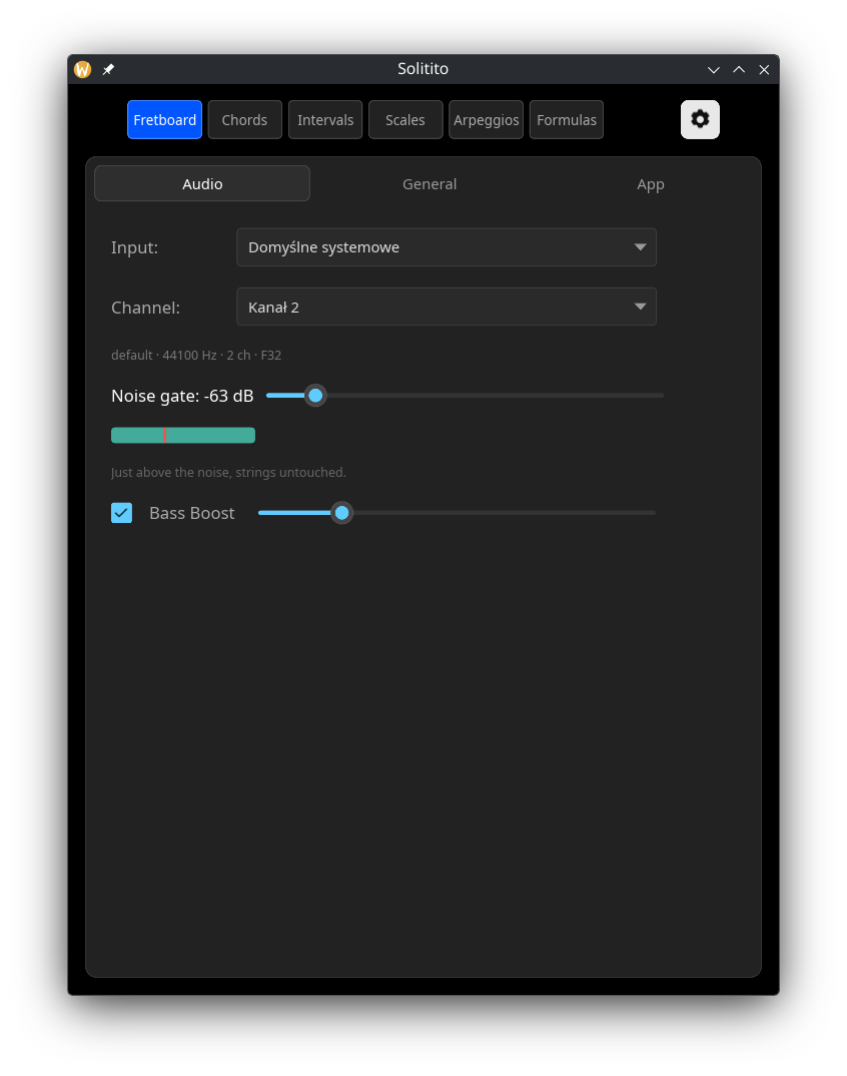
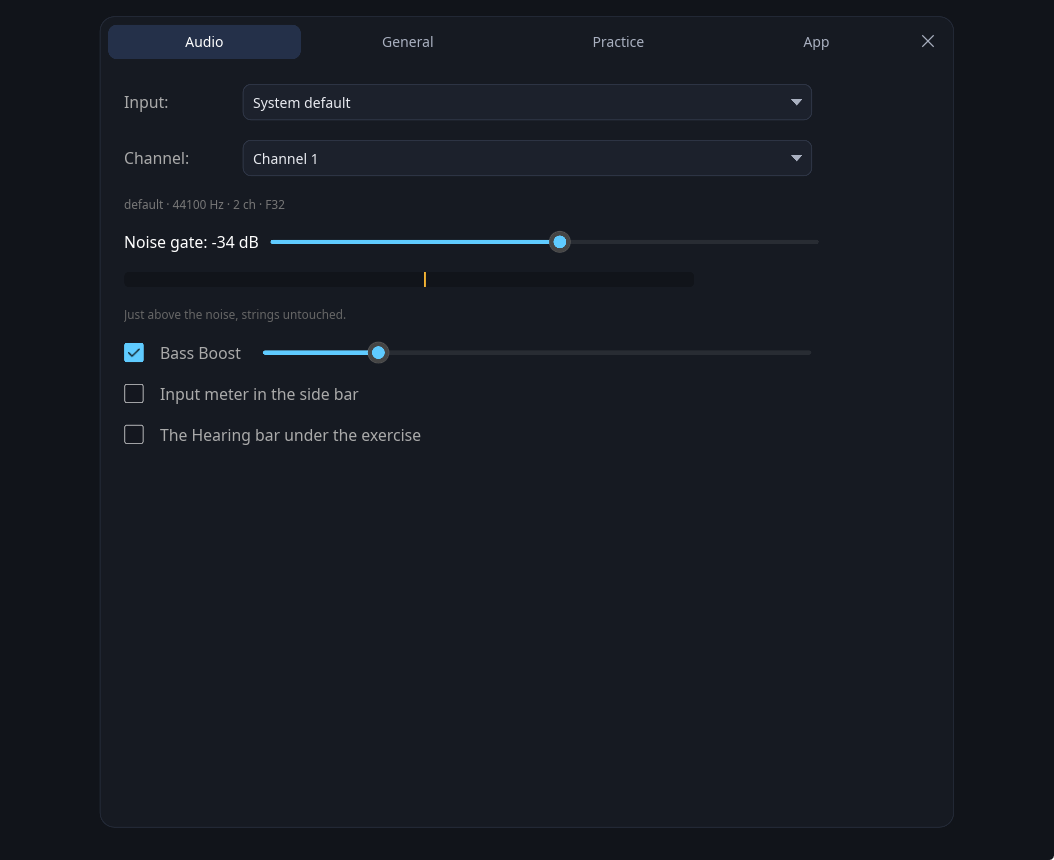
README and settings docs: new screenshots, four in the README

diff --git a/docs/settings_pl.md b/docs/settings_pl.md
@@ -10,9 +10,9 @@ Cztery zakładki: **Dźwięk** — wejście i bramka szumów, **Ogólne** — ja
 to, co grasz, **Ćwiczenia** — co grać, oraz **Program** — co pokazuje okno.
 
 <div align="center">
-<img width="220" alt="Ustawienia, zakładka Dźwięk" src="solitito_settings2.png" />
-<img width="220" alt="Ustawienia, zakładka Ogólne" src="solitito_settings1.png" />
-<img width="220" alt="Ustawienia, zakładka Program" src="solitito_settings4.png" />
+<img width="300" alt="Ustawienia, zakładka Dźwięk" src="solitito_settings2.png" />
+<img width="300" alt="Ustawienia, zakładka Ogólne" src="solitito_settings1.png" />
+<img width="300" alt="Ustawienia, zakładka Program" src="solitito_settings4.png" />
 </div>
 
 **Ćwiczenia** zawierają wyłącznie to, co ma sens dla trybu widocznego na ekranie — utwór nie ma
@@ -20,11 +20,11 @@ nic do powiedzenia w Formułach, formuła nic w Akordach — więc w każdym try
 zakładka, a trener gryfu, który nie ma własnych ustawień, nie pokazuje jej wcale:
 
 <div align="center">
-<img width="175" alt="Ćwiczenia, Akordy" src="solitito_settings3.png" />
-<img width="175" alt="Ćwiczenia, Interwały" src="solitito_settings5.png" />
-<img width="175" alt="Ćwiczenia, Skale" src="solitito_settings6.png" />
-<img width="175" alt="Ćwiczenia, Arpeggia" src="solitito_settings7.png" />
-<img width="175" alt="Ćwiczenia, Formuły" src="solitito_settings8.png" />
+<img width="250" alt="Ćwiczenia, Akordy" src="solitito_settings3.png" />
+<img width="250" alt="Ćwiczenia, Interwały" src="solitito_settings5.png" />
+<img width="250" alt="Ćwiczenia, Skale" src="solitito_settings6.png" />
+<img width="250" alt="Ćwiczenia, Arpeggia" src="solitito_settings7.png" />
+<img width="250" alt="Ćwiczenia, Formuły" src="solitito_settings8.png" />
 </div>
 
 | Ustawienie | Opis |
@@ -33,19 +33,21 @@ zakładka, a trener gryfu, który nie ma własnych ustawień, nie pokazuje jej w
 | **Studium** | Arpeggia, w ćwiczeniu ze studiami: którą frazę przechodzić. Przełącznik losowania znaczy tu **tonację**: nową po każdym przejściu. Arpeggio jest frazą, więc nie ma w nim czego tasować, a wybrane studium zostaje takie, jakie wskazałeś — generator jest osobną pozycją listy dla kogoś, kto chce też świeżej frazy. Najpierw trzy studia w jakościach akordu, potem łamane tercje i triole, dalej zwykłe przebiegi dwuoktawowe, a na końcu generator budujący świeżą frazę po każdym przejściu. Pole obok trzyma tonację |
 | **Ćwiczenie** (arpeggia) | *Studium w tonacji* stoi na jednym akordzie — jego jakość ustawiasz niżej, tonację obok studium, a losowanie dobiera nową po każdym przejściu. *Ogrywanie zmian* bierze akordy z utworu i buduje po jednym arpeggiu na akord |
 | **Kierunek** | Przy ogrywaniu zmian: wznoszące, opadające albo naprzemiennie z każdej ze stron. Opadające to kształt ze studiów — od prymy **w dół** przez składniki akordu, a nie fraza wznosząca czytana od tyłu |
-| **Widok** | Trzy sposoby pokazania ćwiczenia: linia nazw stopni, tabulatura albo sama podstrunnica. Ustawienie jest osobne dla każdego trybu i zapisywane — skala to kolejność dźwięków i czyta się jako tabulatura, chwyt to kształt ręki i mówi coś dopiero na podstrunnicy. Domyślnie tabulatura w Skalach i Arpeggiach, podstrunnica w Interwałach i Gryfie. Fraza — skala albo arpeggio — rysowana jest na podstrunnicy, z białym pierścieniem wokół dźwięku, który jest teraz na kolei, i zielenią na każdym miejscu już zagranym. Fraza w górę i w dół wraca do własnych miejsc, więc na szczycie kształt jest zielony w całości, a o tym, gdzie się jest w drodze powrotnej, mówi pierścień — pierścień jest też na tabulaturze, bo przy skali rozdanej w losowej kolejności to jedyne, co mówi, w którym miejscu się jest; obrazek ma rozmiar ręki niezależnie od długości frazy, więc studium na trzydzieści dźwięków pozostaje czytelne. Skala rysowana jest w losowanej pozycji — kształt jest wszędzie ten sam, a rzecz w tym, żeby go znać tam, gdzie ręka akurat stanie. W Gryfie obrazkiem jest **region**: struny podpisane z lewej, te poza grą przygaszone, progi w grze, a po zagraniu właściwego dźwięku — każde miejsce wewnątrz regionu, gdzie on leży, na zielono. Wcześniej nie ma tam nic, a zły dźwięk nie jest rysowany w ogóle: szukanie miejsca jest właśnie ćwiczeniem. W kółku stoi stopień w pisowni ćwiczenia, więc skala zapisująca podwyższoną sekundę jako `#2` czyta się na gryfie jako `♯2`. W Interwałach zbiór rysowany jest jako **chwyt**: schemat jak przy akordach, struny w poprzek i progi w dół, z pozycją obok — pasek ma na osi poziomej kolejność dźwięków, a to nie mówi nic o tym, gdzie idą palce. Przy włączonym **Prowadź głosy** — domyślnie — każdy chwyt brany jest tam, gdzie palce mają najmniej do przejścia od poprzedniego, więc progresja sama przechodzi przez gryf. Wyłączone: każdy akord brany jest tam, gdzie gryf go daje, i tak poznaje się jeden kształt po całym gryfie, a nie w jednym jego rogu; losowanie też wyłącza prowadzenie. Przy włączonym losowaniu nie ma czego prowadzić: akordy idą w wylosowanej kolejności, a każdy chwyt brany jest tam, gdzie gryf go daje. To, na której strunie leży kółko, jest oktawą, więc apostrofy przestają być potrzebne; zagrane zapala się na zielono w obu widokach |
+| **Widok** | Trzy sposoby pokazania ćwiczenia: linia nazw stopni, tabulatura albo sama podstrunnica. Ustawienie jest osobne dla każdego trybu i zapisywane — skala to kolejność dźwięków i czyta się jako tabulatura, chwyt to kształt ręki i mówi coś dopiero na podstrunnicy. Domyślnie tabulatura w Skalach i Arpeggiach, podstrunnica w Interwałach i Gryfie. Fraza — skala albo arpeggio — rysowana jest na podstrunnicy, z białym pierścieniem wokół dźwięku, który jest teraz na kolei, i zielenią na każdym miejscu już zagranym. Fraza w górę i w dół wraca do własnych miejsc, więc na szczycie kształt jest zielony w całości, a o tym, gdzie się jest w drodze powrotnej, mówi pierścień — pierścień jest też na tabulaturze, bo przy skali rozdanej w losowej kolejności to jedyne, co mówi, w którym miejscu się jest; obrazek ma rozmiar ręki niezależnie od długości frazy, więc studium na trzydzieści dźwięków pozostaje czytelne. Skala rysowana jest w losowanej pozycji — kształt jest wszędzie ten sam, a rzecz w tym, żeby go znać tam, gdzie ręka akurat stanie. W Gryfie obrazkiem jest **region**: struny podpisane z lewej, te poza grą przygaszone, progi w grze, a po zagraniu właściwego dźwięku — każde miejsce wewnątrz regionu, gdzie on leży, na zielono. Wcześniej nie ma tam nic, a zły dźwięk nie jest rysowany w ogóle: szukanie miejsca jest właśnie ćwiczeniem. W kółku stoi stopień w pisowni ćwiczenia, więc skala zapisująca podwyższoną sekundę jako `#2` czyta się na gryfie jako `♯2`. W Interwałach zbiór rysowany jest jako **chwyt**: schemat jak przy akordach, struny w poprzek i progi w dół, z pozycją obok — pasek ma na osi poziomej kolejność dźwięków, a to nie mówi nic o tym, gdzie idą palce. Przy włączonym **Prowadź głosy** — domyślnie — każdy chwyt brany jest tam, gdzie palce mają najmniej do przejścia od poprzedniego, więc progresja sama przechodzi przez gryf. Wyłączone: każdy akord brany jest tam, gdzie gryf go daje, i tak poznaje się jeden kształt po całym gryfie, a nie w jednym jego rogu; losowanie też wyłącza prowadzenie. Przy włączonym losowaniu nie ma czego prowadzić: akordy idą w wylosowanej kolejności, a każdy chwyt brany jest tam, gdzie gryf go daje. To, na której strunie leży kółko, jest oktawą, więc apostrofy przestają być potrzebne; zagrane zapala się na zielono w obu widokach. Interwały mają czwarty widok, **kafelki**: każdy stopień na karcie, z dźwiękiem, na który wypada w tym akordzie, i z tym, czy jest teraz, dalej, czy już zaliczony |
 | **Numery progów zamiast stopni** | Tylko na tym rysunku. Pryma zachowuje swój kolor |
 | **Tonacja** | Tylko Skale: tonika. Przy włączonej kolejności losowej losowana od nowa po każdym przejściu |
 | **Interwały** | Które stopnie ćwiczyć. `1 3 5` dla triad, `1 3 5 7` dla akordów septymowych, `1 3` dla voicingów szkieletowych. `3` obejmuje tercję wielką i małą, `5` kwintę czystą i zmniejszoną, zależnie od jakości akordu |
 | **Pokazuj predykcję AI w oknie głównym** | Wyświetla surową odpowiedź modelu na ekranie głównym |
 | **Wejście** | Które urządzenie przechwytujące otworzyć. *Domyślne systemowe* podąża za ustawieniem systemu. Zapamiętywane, z odwrotem do domyślnego, gdy urządzenia zabraknie |
 | **Kanał** | Na którym wejściu urządzenia słuchać — gitara w gnieździe 2 interfejsu to kanał 2. Pokazywany tylko wtedy, gdy urządzenie ma więcej niż jeden, i nie ma opcji miksowania: uśrednianie wejść wciąga to, co jest na drugim gnieździe, i kosztuje 6 dB |
-| **Bramka szumów** | Próg w dBFS. Pasek poniżej pokazuje bieżący poziom wejścia w tej samej skali, z progiem zaznaczonym na czerwono — ustaw go tuż nad szumem przy nietkniętych strunach |
+| **Bramka szumów** | Próg w dBFS. Pasek poniżej pokazuje bieżący poziom wejścia w tej samej skali, z progiem zaznaczonym żółtą kreską — ustaw go tuż nad szumem przy nietkniętych strunach |
+| **Miernik wejścia w pasku bocznym** | Ten sam poziom i żółta kreska na karcie w pasku bocznym, nad nimi urządzenie, kanał i to, czy gitara jest słyszana. Domyślnie wyłączone; kliknięcie karty otwiera zakładkę Dźwięk |
+| **Pasek „Słyszę” pod ćwiczeniem** | Co rozpoznaje model i jakie dźwięki słyszy, pod ćwiczeniem. Domyślnie wyłączone — w trakcie gry odciąga wzrok od schematów |
 | **Podbicie basu** | Cyfrowe wzmocnienie najniższych prążków CQT. Przydatne przy mikrofonach laptopowych, które zwykle ścinają niskie struny |
 | **Trzymaj jakość akordu do nowego ataku** | Utrzymuje rozpoznaną jakość, dopóki nie uderzysz strun ponownie. Bez tego trzymane `m7` zmienia się w `m`, gdy septyma wybrzmiewa |
 | **Oceniaj krótkie szarpnięcia po ataku** | Dla akordów uderzanych i puszczanych, a nie trzymanych. Liczy się jeden czysty odczyt celu, a wybrzmiewanie po nim nie może go cofnąć. Zły akord nadal nie przechodzi |
 | **Zaliczaj tylko to, co uderzone** | Tryby nutowe: model może zaliczyć dźwięk tylko wtedy, gdy detektor uderzeń zgłosił uderzenie właśnie tego dźwięku w ostatnich 0,35 s — łącznie z odczytem nazwy akordu, który wcześniej się przez to prześlizgiwał i zaliczał dowolny dźwięk, jeśli akurat był prymą tego, co model nazwał. Zmierzone na nagraniu pojedynczych dźwięków: dwie trzecie zaliczeń, które model przyznaje dźwiękowi innemu niż grany, nie niesie żadnego ataku — prawie zawsze jest to dźwięk poprzedni, wciąż brzmiący w jego oknie 0,77 s. Domyślnie włączone w Interwałach, z osobno zapamiętywanym wyborem; w pozostałych trybach domyślnie wyłączone. Estymaty z pojedynczej ramki ta opcja nie dotyczy; w Formułach ma ona własną regułę, patrz [Jak to działa](how-it-works_pl.md) |
-| **Graj dźwięki pojedynczo** | Do wyboru w Interwałach i w Gryfie. W Skalach i Arpeggiach obowiązuje zawsze, niezależnie od ustawienia — nikt nie uderza skali jak akordu — a Akordy i Formuły mają swoje własne reguły. Wyłączone: uderzony akord zalicza swoje interwały jeden po drugim — głowica wysokości jest polifoniczna i raportuje wszystkie dźwięki naraz. Włączone: liczy się wyłącznie estymata jednoklatkowa, i to dopiero gdy utrzyma się przez trzy klatki audio: zmierzone na 49 dźwiękach — cztery drogi zaliczenia razem dały 110 zaliczeń rzeczy niegranych, sama ustabilizowana estymata 33, i nie przegapiła żadnego dźwięku. **Domyślnie włączone w Interwałach**, razem ze stałą kolejnością i „zaliczaj tylko to, co uderzone" — te trzy razem są drogą zmierzoną. Odznaczone wszystkie trzy i tryb staje się tym drugim, czym może być: decyduje model i nic z nim nie dyskutuje, łącznie z przenoszeniem zaliczeń między akordami — to gra akordami i pojedynczymi dźwiękami akordowymi dla zabawy, a nie egzamin |
+| **Graj dźwięki pojedynczo** | Do wyboru w Interwałach i w Gryfie. W Skalach i Arpeggiach obowiązuje zawsze, niezależnie od ustawienia — nikt nie uderza skali jak akordu — a Akordy i Formuły mają swoje własne reguły. Wyłączone: uderzony akord zalicza swoje interwały jeden po drugim — głowica wysokości jest polifoniczna i raportuje wszystkie dźwięki naraz. Włączone: liczy się wyłącznie estymata jednoklatkowa, i to dopiero gdy utrzyma się przez trzy klatki audio: zmierzone na 49 dźwiękach — cztery drogi zaliczenia razem dały 110 zaliczeń rzeczy niegranych, sama ustabilizowana estymata 33, i nie przegapiła żadnego dźwięku. **Domyślnie włączone w Interwałach**, razem ze stałą kolejnością i „zaliczaj tylko to, co uderzone" — te trzy razem są drogą zmierzoną. Odznaczone wszystkie trzy i tryb staje się tym drugim, czym może być: decyduje model i nic z nim nie dyskutuje, łącznie z przenoszeniem zaliczeń między akordami — czyli Interwały bez „pojedynczo, po kolei, tylko uderzone” |
 | **Losowa kolejność** | Ikona losowania na pasku narzędzi. W trybach nutowych miesza dźwięki wewnątrz każdego akordu; w Akordach zmienia kolejność progresji, a w Skalach losuje tonację po każdym przejściu |
 | **Mieszaj także akordy** | Tylko Interwały i Arpeggia, i tylko przy włączonym losowaniu. Wyłączone: progresja zostaje taka, jak zapisana, a ruszają się same dźwięki — pomieszane interwały idące po prawdziwej progresji zamieniają się w melodie. Włączone: akordy również są losowane, co jest ćwiczeniem bardziej abstrakcyjnym |
 | **Ćwiczenie** (formuły) | *Formuła w tonacji* to tryb w postaci pierwotnej. *Nad akordem* stawia tę samą formułę na jednym wylosowanym akordzie, a *Nad standardem* na każdym akordzie utworu po kolei — formuła jest stała, harmonia pod nią się zmienia |
@@ -84,10 +86,12 @@ własną i czekają na klawisz, żeby raport dało się przeczytać.
 
 Trzy elementy sterowania leżą poza panelem ustawień, w samym oknie.
 
-**Pasek na dole** pokazuje akord właśnie zagrany, akord bieżący i następny. Akord zostawiony
-za sobą zachowuje kolor, na jaki zasłużył — zielony przy trafieniu dokładnym, żółty gdy
-przeszedł triadą albo zamianą — więc zaliczenie zostaje czytelne po tym, jak program poszedł
-dalej.
+**Rząd akordów u góry** pokazuje, gdzie w utworze jesteś: dwa akordy wstecz, bieżący i cztery
+następne. Akord zostawiony za sobą zachowuje kolor, na jaki zasłużył — zielony przy trafieniu
+dokładnym, żółty gdy przeszedł triadą albo zamianą — a przewinięty strzałkami zostaje szary.
+**Tytuł utworu** pod nim otwiera listę utworów. W Interwałach w prawym górnym rogu stoją dwie
+zasady, **Pojedyncze dźwięki** i **Po kolei** — te same przełączniki co w ustawieniach
+Ćwiczeń.
 
 **Losowanie** znaczy w każdym trybie co innego, bo w każdym co innego warto losować:
 
@@ -108,7 +112,7 @@ pokrywa wszystkie sześć sposobów. Losowanie dawało pięć zejść z rzędu, 
 zepsute ćwiczenie.
 
 **Pauza** zatrzymuje progresję, a kolory dalej mówią, czy akord jest właściwy — można zostać
-przy jednym chwycie i go opracować. Przy pauzie strzałki po bokach paska przechodzą tam i z
-powrotem po progresji.
+przy jednym chwycie i go opracować. Przy pauzie strzałki po bokach przycisku pauzy przechodzą tam
+i z powrotem po progresji.
 
 Puste struny w gripach interwałów są rysowane jako niewypełnione kółka poza kolumnami progów, z interwałem w środku. Nie trafiają na pierwszy próg.

diff --git a/docs/settings.md b/docs/settings.md
@@ -10,9 +10,9 @@ Four tabs: **Audio** for the input and the noise gate, **General** for how stric
 play is judged, **Practice** for what to play, and **App** for what the window shows.
 
 <div align="center">
-<img width="220" alt="Settings, Audio tab" src="solitito_settings2.png" />
-<img width="220" alt="Settings, General tab" src="solitito_settings1.png" />
-<img width="220" alt="Settings, App tab" src="solitito_settings4.png" />
+<img width="300" alt="Settings, Audio tab" src="solitito_settings2.png" />
+<img width="300" alt="Settings, General tab" src="solitito_settings1.png" />
+<img width="300" alt="Settings, App tab" src="solitito_settings4.png" />
 </div>
 
 **Practice** holds only what belongs to the mode on screen — a song has nothing to say in
@@ -20,11 +20,11 @@ Formulas, a formula nothing in Chords — so it is a different tab in each of th
 fretboard trainer, which has no settings of its own, does not show it at all:
 
 <div align="center">
-<img width="175" alt="Practice, Chords" src="solitito_settings3.png" />
-<img width="175" alt="Practice, Intervals" src="solitito_settings5.png" />
-<img width="175" alt="Practice, Scales" src="solitito_settings6.png" />
-<img width="175" alt="Practice, Arpeggios" src="solitito_settings7.png" />
-<img width="175" alt="Practice, Formulas" src="solitito_settings8.png" />
+<img width="250" alt="Practice, Chords" src="solitito_settings3.png" />
+<img width="250" alt="Practice, Intervals" src="solitito_settings5.png" />
+<img width="250" alt="Practice, Scales" src="solitito_settings6.png" />
+<img width="250" alt="Practice, Arpeggios" src="solitito_settings7.png" />
+<img width="250" alt="Practice, Formulas" src="solitito_settings8.png" />
 </div>
 
 | Setting | Description |
@@ -33,19 +33,21 @@ fretboard trainer, which has no settings of its own, does not show it at all:
 | **Study** | Arpeggios, in the study exercise: which phrase to walk. The shuffle switch means the KEY here: a new one after every pass. An arpeggio is a phrase, so there is nothing in it to shuffle, and the study itself is left as chosen — the generator is a row in the list for anyone who wants a fresh phrase as well. The three chord-quality studies come first, then the broken thirds and triplets, then plain two-octave runs, and last a generator that builds a fresh phrase after every pass. The second combo beside it holds the key |
 | **Exercise** (arpeggios) | *Study in a key* stands on one chord — its quality is set below, its key beside the study, and the shuffle draws a new key after every pass. *Over the changes* takes the chords from a tune and builds one arpeggio per chord |
 | **Direction** | Over the changes: ascending, descending, or alternating from either side. Descending is the shape the studies use — from the root **downwards** through the chord's own tones, not the ascending phrase read backwards |
-| **View** | Three ways to show the exercise: the line of degree names, tablature, or the neck itself. Kept per mode and remembered — a scale is an order of notes and reads as tablature, a grip is a hand shape and says nothing until it is on the neck. Tablature by default in Scales and Arpeggios, the neck in Intervals and the fretboard trainer. A phrase — a scale or an arpeggio — is drawn on the neck it is played on, with the note due ringed in white and every place already played green. An up-and-down phrase comes back to its own places, so by the turn the shape is green all through and the ring is what says where the player is on the way down — the tablature rings it too, which is what tells you where you are in a scale dealt in a drawn order; the picture is the size of a hand however long the phrase is, so a thirty-note study stays readable. A scale is drawn in a position drawn at random — the shape is the same everywhere, and the point is to know it wherever the hand lands. In the fretboard trainer the picture is the REGION: the strings named down the left, the ones out of play dimmed, the frets in play, and — once the note asked for is played — every place inside the region where it lies, in green. Nothing is drawn before that, and a wrong note is not drawn at all: where the note lies is the exercise. Each dot carries the degree as the exercise writes it, so a scale spelling its altered second `#2` reads `♯2` on the neck too. In Intervals the set is drawn as a GRIP: a chord box like the shape diagrams, strings across and frets down, with the position beside it — a strip has the ORDER of the notes on its horizontal axis, which says nothing about where the fingers go. With **Lead the voices** on — the default — each grip is taken where the fingers have least to move from the one before, so a progression walks itself across the neck. Off, every chord is taken wherever the neck is drawn to offer it, which is how one shape is learned all over the neck instead of in one corner of it; the shuffle switches the leading off as well. With the shuffle on there is no line to lead: the chords come in a drawn order and each grip is taken where the neck offers it. Which string a dot sits on is the octave, so nothing needs an apostrophe; what has been played lights green either way |
+| **View** | Three ways to show the exercise: the line of degree names, tablature, or the neck itself. Kept per mode and remembered — a scale is an order of notes and reads as tablature, a grip is a hand shape and says nothing until it is on the neck. Tablature by default in Scales and Arpeggios, the neck in Intervals and the fretboard trainer. A phrase — a scale or an arpeggio — is drawn on the neck it is played on, with the note due ringed in white and every place already played green. An up-and-down phrase comes back to its own places, so by the turn the shape is green all through and the ring is what says where the player is on the way down — the tablature rings it too, which is what tells you where you are in a scale dealt in a drawn order; the picture is the size of a hand however long the phrase is, so a thirty-note study stays readable. A scale is drawn in a position drawn at random — the shape is the same everywhere, and the point is to know it wherever the hand lands. In the fretboard trainer the picture is the REGION: the strings named down the left, the ones out of play dimmed, the frets in play, and — once the note asked for is played — every place inside the region where it lies, in green. Nothing is drawn before that, and a wrong note is not drawn at all: where the note lies is the exercise. Each dot carries the degree as the exercise writes it, so a scale spelling its altered second `#2` reads `♯2` on the neck too. In Intervals the set is drawn as a GRIP: a chord box like the shape diagrams, strings across and frets down, with the position beside it — a strip has the ORDER of the notes on its horizontal axis, which says nothing about where the fingers go. With **Lead the voices** on — the default — each grip is taken where the fingers have least to move from the one before, so a progression walks itself across the neck. Off, every chord is taken wherever the neck is drawn to offer it, which is how one shape is learned all over the neck instead of in one corner of it; the shuffle switches the leading off as well. With the shuffle on there is no line to lead: the chords come in a drawn order and each grip is taken where the neck offers it. Which string a dot sits on is the octave, so nothing needs an apostrophe; what has been played lights green either way. Intervals has a fourth view, **tiles**: each degree on a card, with the note it falls on this chord and whether it is due, still to come or done |
 | **Fret numbers instead of degrees** | In that drawing only. The root keeps its colour |
 | **Key** | Scales only: the tonic. With random order on, it is redrawn after each pass |
 | **Intervals** | Which degrees to practise. `1 3 5` for triads, `1 3 5 7` for sevenths, `1 3` for shell voicings. `3` matches both major and minor thirds, `5` matches perfect and diminished fifths, according to the chord quality |
 | **Show AI Debug in Main Window** | Shows the raw prediction on the main screen |
 | **Input** | Which capture device to open. *System default* follows whatever the OS is set to. Saved, and falls back to the default if that device is gone |
 | **Channel** | Which input of that device to listen on — a guitar in socket 2 of an interface is channel 2. Shown only when the device has more than one, and there is no mixing option: averaging the inputs pulls in whatever is on the other socket and costs 6 dB |
-| **Noise gate** | Threshold in dBFS. The bar below shows the current input level on the same scale, with the threshold marked in red — set it just above the noise with the strings untouched |
+| **Noise gate** | Threshold in dBFS. The bar below shows the current input level on the same scale, with the threshold marked by a yellow line — set it just above the noise with the strings untouched |
+| **Input meter in the side bar** | The same level and yellow line, in a card in the side bar, with the device and channel above it and whether the guitar is heard. Off by default; a click on the card opens the Audio tab |
+| **The Hearing bar under the exercise** | What the model names and the notes it hears, under the exercise. Off by default — while playing it pulls the eye away from the shapes |
 | **Bass Boost** | Digital amplification of the lowest CQT bins. Useful for laptop microphones, which usually roll off the low strings |
 | **Lock chord quality until new attack** | Holds the recognised quality until you strike the strings again. Without it, a held `m7` turns into `m` as the seventh dies away |
 | **Judge short strums on the attack** | For chords struck and released rather than held. One clear reading of the target counts, and the decay that follows cannot undo it. A wrong chord still fails |
 | **Credit only what was struck** | Note modes: the model may credit a note only where the strike detector reported that very note struck in the last 0.35 s — the chord-name reading included, which used to slip through and credit whatever note the model's root happened to be. Measured on a recording of single notes, two thirds of the credits it hands to a note other than the one being played carry no attack at all — almost always the previous note, still ringing inside its 0.77 s window. On by default in Intervals, with a separate saved choice; off by default in other modes. The single-frame estimate is not governed by it; in Formulas it has a rule of its own, see [How it works](how-it-works.md) |
-| **Play the notes one at a time** | Offered in Intervals and the fretboard trainer. In Scales and Arpeggios the rule is in force whatever the setting says — nobody strums a scale — and Chords and Formulas have their own. Off, a strummed chord passes its intervals one after another — the pitch head is polyphonic and reports every tone at once. On, nothing but the single-frame estimate counts, and only once it has held for three audio frames: measured over 49 notes, the four ways in together credited 110 things nobody played, the steady estimate alone 33, and it missed none. **On by default in Intervals**, with the fixed order and "only what was struck" — the three together are the measured path. Turn all three off and the mode becomes the other thing it can be: the model decides and nothing argues with it, carry-over between chords included, which is chords and single chord tones played for fun rather than a test |
+| **Play the notes one at a time** | Offered in Intervals and the fretboard trainer. In Scales and Arpeggios the rule is in force whatever the setting says — nobody strums a scale — and Chords and Formulas have their own. Off, a strummed chord passes its intervals one after another — the pitch head is polyphonic and reports every tone at once. On, nothing but the single-frame estimate counts, and only once it has held for three audio frames: measured over 49 notes, the four ways in together credited 110 things nobody played, the steady estimate alone 33, and it missed none. **On by default in Intervals**, with the fixed order and "only what was struck" — the three together are the measured path. Turn all three off and the mode becomes the other thing it can be: the model decides and nothing argues with it, carry-over between chords included, which is Intervals without “one at a time, in order, only what was struck” |
 | **Random order** | The shuffle icon on the toolbar. In the note modes it shuffles the tones inside each chord; in Chords it reorders the progression, and in Scales it redraws the key after every pass |
 | **Shuffle the chords as well** | Intervals and Arpeggios only, and only with the shuffle on. Off, the progression stays as written and just the tones move — shuffled intervals walking a real progression turn into tunes. On, the chords are drawn at random too, which is the more abstract exercise |
 | **Exercise** (formulas) | *Formula in a key* is the mode as it was. *Over a chord* plants the same formula on one drawn chord, and *Over the changes* plants it on every chord of a tune in turn — the formula is the constant, the harmony moves under it |
@@ -78,10 +80,12 @@ and sample format. `./solitito --help` lists every option. `./solitito --devices
 
 Three controls sit outside the settings panel, on the window itself.
 
-**The strip along the bottom** shows the chord just played, the one being played, and the one
-after it. The chord left behind keeps the colour it earned — green for an exact match, yellow
-if a triad or a substitution got it through — so a pass stays readable once the app has moved
-on.
+**The strip along the top** shows where in the tune you are: two chords behind, the current
+one, and four ahead. A chord left behind keeps the colour it earned — green for an exact match,
+yellow if a triad or a substitution got it through — and one stepped over with the arrows
+stays grey. The **song title** under it opens the list of songs. In Intervals the top right
+corner holds two rules, **Single notes** and **In order**, the same switches as in Practice
+settings.
 
 **The shuffle** means something different in each mode, because the modes have different
 things worth randomising:
@@ -104,6 +108,6 @@ broken exercise.
 
 **Pause** stops the progression while the colours go on reporting whether the chord is right,
 so you can stay on one shape and work it out. While paused, the arrows either side of the
-strip step back and forth through the progression.
+pause button step back and forth through the progression.
 
 Open strings in interval grips appear as unfilled circles outside the fret columns, with the interval inside. They are not drawn on the first fret.

diff --git a/README.md b/README.md
@@ -10,16 +10,15 @@ Recognition runs on a small neural network (7.3M parameters) exported to ONNX. E
 DSP, inference, UI — happens locally on the CPU. 
 
 <div align="center">
-<img height="320" alt="Solitito main window" src="docs/solitito_main.png" />
-<img height="320" alt="Shell voicings" src="docs/solitito_main_shell_voicings.png" />
-<img height="320" alt="Chord shape, enlarged" src="docs/solitito_chord_diagrams.png" />
+<img width="420" alt="Chords: shell voicings, one column per root string" src="docs/solitito_chords.png" />
+<img width="420" alt="Intervals as tiles" src="docs/solitito_intervals.png" />
 </div>
 
 Chord shapes are labelled with **intervals, not fingerings**, so one diagram covers
-all twelve keys: the red dot is the root, and the shape moves. Clicking shape of chord 
-enlarges it. The middle shot shows the same chord as **shell voicings** — third and
-seventh over the root, with the fifth left out — which is the other thing the shapes
-can be drawn as.
+all twelve keys: the red dot is the root, and the shape moves. Clicking a shape enlarges
+it. The left shot shows the chord as **shell voicings** — third and seventh over the root,
+with the fifth left out — one column per root string (E, A, D), the second voicing under
+the first. The right one is Intervals with the degrees drawn as tiles.
 
 Solitito is heavily inspired by [Solo](https://www.solotrainer.app/), an Android/iOS guitar
 trainer which I still use. Solo is great — but it hears one note at a time — when playing
@@ -56,13 +55,8 @@ chord, the app moves on to the next one.
   builds a fresh one after every pass.
 
 <div align="center">
-<img height="360" alt="Fretboard trainer" src="docs/solitito_fretboard.png" />
-<img height="360" alt="Intervals as a grip" src="docs/solitito_intervals.png" />
-</div>
-
-<div align="center">
-<img height="360" alt="A scale on the neck" src="docs/solitito_scales.png" />
-<img height="360" alt="An arpeggio study as tablature" src="docs/solitito_arpeggios_tab.png" />
+<img width="420" alt="An arpeggio over the changes, on the neck" src="docs/solitito_arpeggios.png" />
+<img width="420" alt="Formulas" src="docs/solitito_formulas.png" />
 </div>
 
 - **Formulas** — random selection from all subsets of the 12 chromatic functions that contain "1",
@@ -83,10 +77,6 @@ The Formulas mode is inspired by **An Improviser's OS** by Wayne Krantz — poss
 interesting approach to creative improvisation ever put together.
 
 The book is available from [Wayne Krantz](https://waynekrantz.bandcamp.com/merch/wayne-krantz-an-improvisers-os-2nd-edition) directly.
-
-<div align="center">
-<img height="479" alt="Formulas" src="docs/solitito_formulas.png" />
-</div>
 
 
 ### The chord, scales and arpeggio visual shapes are for the beginning

diff --git a/README_pl.md b/README_pl.md
@@ -10,15 +10,15 @@ Rozpoznawanie działa na niewielkiej sieci neuronowej (7,3 mln parametrów) wyek
 ONNX. Wszystko — DSP, wnioskowanie, interfejs — dzieje się lokalnie.
 
 <div align="center">
-<img height="320" alt="Okno główne Solitito" src="docs/solitito_main.png" />
-<img height="320" alt="Shell voicingi" src="docs/solitito_main_shell_voicings.png" />
-<img height="320" alt="Powiększony schemat akordu" src="docs/solitito_chord_diagrams.png" />
+<img width="420" alt="Akordy: shell voicingi, kolumna na strunę prymy" src="docs/solitito_chords.png" />
+<img width="420" alt="Interwały jako kafelki" src="docs/solitito_intervals.png" />
 </div>
 
 Schematy akordów opisane są **interwałami**, więc jeden diagram obsługuje
 wszystkie dwanaście tonacji: czerwona kropka to pryma, kliknięcie w
-schemat powiększa go. Środkowy zrzut pokazuje ten sam akord jako **shell voicingi** —
-tercja i septyma nad prymą, bez kwinty.
+schemat powiększa go. Lewy zrzut pokazuje akord jako **shell voicingi** — tercja i septyma
+nad prymą, bez kwinty — po kolumnie na strunę prymy (E, A, D), drugi wariant pod pierwszym.
+Prawy to Interwały ze stopniami w postaci kafelków.
 
 Solitito jest mocno zainspirowane [Solo](https://www.solotrainer.app/), trenerem na
 Androida i iOS, z którego nadal korzystam. Solo jest super — ale słyszy jeden dźwięk naraz —
@@ -52,13 +52,8 @@ akord, przechodzi do następnego.
   jeden wzorzec pasuje do każdego akordu w standardzie. Dwuoktawowe frazy jazzowe oraz
   generator budujący nowe arpeggio po każdym przejściu.
 <div align="center">
-<img height="360" alt="Gryf" src="docs/solitito_fretboard.png" />
-<img height="360" alt="Interwały jako chwyt" src="docs/solitito_intervals.png" />
-</div>
-
-<div align="center">
-<img height="360" alt="Skala na podstrunnicy" src="docs/solitito_scales.png" />
-<img height="360" alt="Studium arpeggiowe jako tabulatura" src="docs/solitito_arpeggios_tab.png" />
+<img width="420" alt="Arpeggio na zmianach, na podstrunnicy" src="docs/solitito_arpeggios.png" />
+<img width="420" alt="Formuły" src="docs/solitito_formulas.png" />
 </div>
 
 - **Formuły** — losowo wybrana spośród wszystkich podzbiorów dwunastu funkcji chromatycznych
@@ -83,9 +78,6 @@ najciekawszym podejściem do kreatywnej improwizacji, jakie powstało.
 Książkę można kupić bezpośrednio u [Wayne'a Krantza](https://waynekrantz.bandcamp.com/merch/wayne-krantz-an-improvisers-os-2nd-edition).
 Warto też posłuchać jego muzyki, bo to genialny muzyk i improwizator.
 
-<div align="center">
-<img height="479" alt="Formuły" src="docs/solitito_formulas.png" />
-</div>
 
 
 ### Wyświetlanie kształtów na podstrunnicy i tabulatur to pomoc na początku
